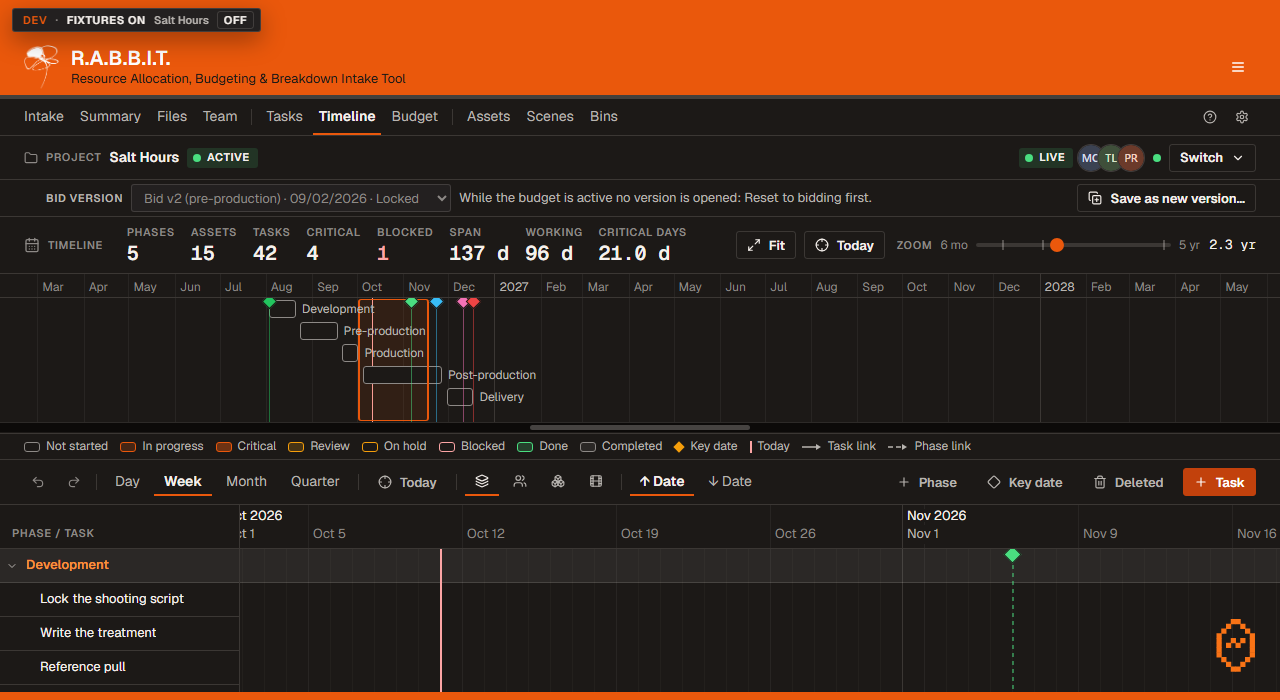
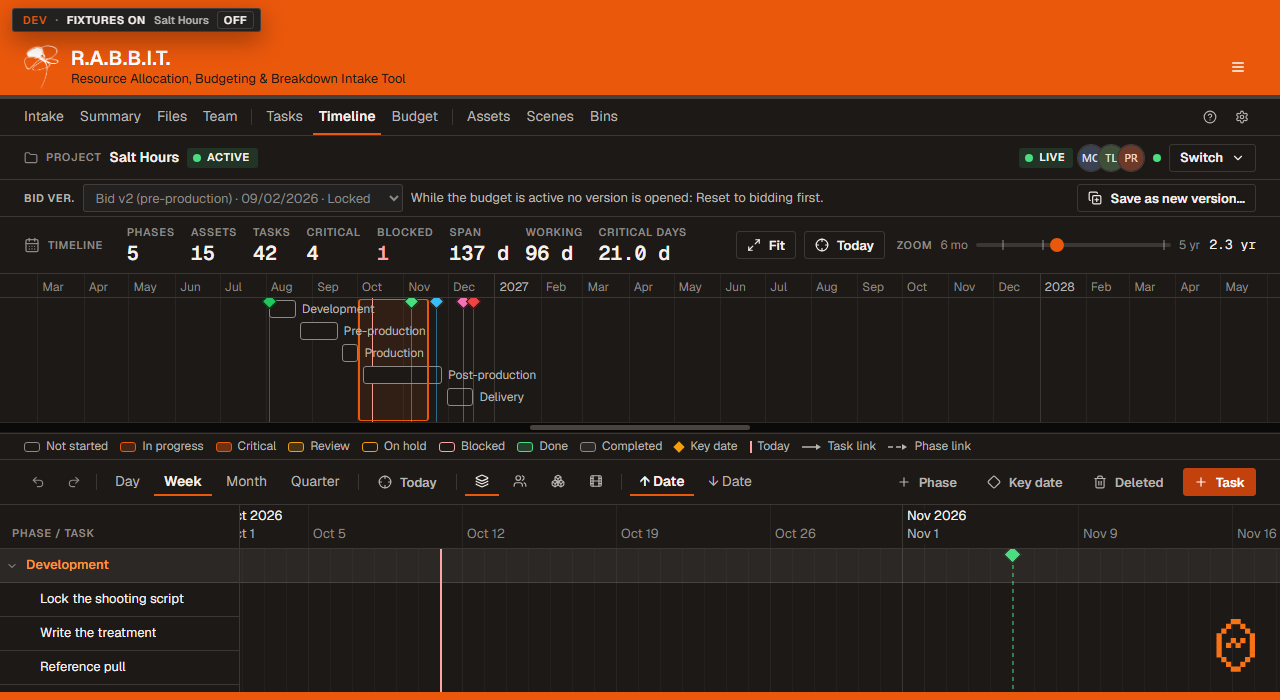
fix(rabbit): the bid version bar's label on the gutter, reading "Bid ver." (FX3 item 2, her second word)
Audrey, 2026-10-11, on the first cut: "move the bid version more to the
left. make it say 'bid ver.' instead of 'bid version'."

- rabbitTimeline.css: the bar's padding is the page gutter again on both
  sides, so its label starts at the project title bar's own left edge
  (MEASURED at 1440x900 and 1280x700, every state: the label at x=24, the
  title bar's bottom and the bar's top both 180px, the right edges equal);
  the first cut had indented it 22px into the title bar's label column.
- TimelineVersions.jsx: the label reads "Bid ver." (BID VER. on the Label
  step); its hover says "Bid version", and the dropdown's own name stays
  "Bid version" (aria-label), so a screen reader hears the whole word.
- Help's Timeline card names it as drawn: "the bid version bar, labelled
  Bid ver., sits right under the project title".
- Tests follow: the gutter padding (no calc), the title bar on the same
  gutter, the words on screen, on the hover and on the dropdown;
  timelineVersions' placement test reads the three.
- Pictures: po-fx3-after-versionbar-* retaken.

Changed region(s): [[0.0, 0.27, 0.6875, 0.3]]

diff --git a/WILSON/src/tools/rabbit_v0.1.0/views/timelineShotLists.test.jsx b/WILSON/src/tools/rabbit_v0.1.0/views/timelineShotLists.test.jsx
@@ -289,21 +289,24 @@ describe('the Timeline view: the shot-list label, and the undo keys\' page gate 
     expect(src.match(/<TimelineVersionBar\b/g)).toHaveLength(1)
     expect(src).not.toMatch(/\bversionBar\b/)
   })
-  it('FX3: the bar\'s label sits in the project title bar\'s label column — the gutter, that bar\'s icon and the kit Toolbar\'s gap', () => {
+  // Audrey's second word on it, the same day: "move the bid version more to
+  // the left. make it say 'bid ver.' instead of 'bid version'". The first cut
+  // indented the label under "PROJECT"; it starts on the page gutter now.
+  it('FX3: the bar\'s label starts on the page gutter — the project title bar\'s own left edge — and reads "Bid ver."', () => {
     const tl = read('./rabbitTimeline.css').replace(/\/\*[\s\S]*?\*\//g, '')
     const bar = (tl.match(/\.rb-tl-ver-bar \{([^}]*)\}/) || [])[1] || ''
-    expect(bar).toMatch(/padding: 4px var\(--spacing-gutter\) 4px calc\(var\(--spacing-gutter\) \+ var\(--icon-sm\) \+ 8px\);/)
-    // …which holds only while the title bar is the kit Toolbar (the gutter,
-    // an 8px gap) led by an icon at --icon-sm: pinned here so a change there
-    // is seen here.
-    const shell = read('../rabbitShell.css').replace(/\/\*[\s\S]*?\*\//g, '')
-    expect(shell).toMatch(/\.rb-ctx-icon \{ width: var\(--icon-sm\); height: var\(--icon-sm\);/)
+    expect(bar).toMatch(/padding: 4px var\(--spacing-gutter\);/)
+    expect(bar).not.toMatch(/calc\(/)
+    // …the same edge as the title bar, the kit Toolbar on the gutter: pinned
+    // here so a change there is seen here.
     const kit = read('../../../index.css').replace(/\/\*[\s\S]*?\*\//g, '')
     const toolbarRule = (kit.match(/\.ui-toolbar \{([^}]*)\}/) || [])[1] || ''
-    expect(toolbarRule).toMatch(/gap: 8px;/)
     expect(toolbarRule).toMatch(/padding: 0 var\(--spacing-gutter\);/)
-    const ctxBar = read('../components/ProjectContextBar.jsx')
-    expect(ctxBar).toMatch(/<Toolbar className="rb-ctx"[^>]*>\s*<Folder className="rb-ctx-icon"/)
+    expect(read('../components/ProjectContextBar.jsx')).toMatch(/<Toolbar className="rb-ctx"/)
+    // The words: "Bid ver." on screen, the whole name on the hover and on the dropdown.
+    const src = read('./TimelineVersions.jsx')
+    expect(src).toContain('<span className="ui-field-label" title="Bid version">Bid ver.</span>')
+    expect(src).toMatch(/aria-label="Bid version"\n/)
   })
   it('CONTROL: round 1\'s flat 180px cap fails the six-tab room (and five), and a cap that ignores the tabs fails six', () => {
     const flat = capRule().replace(/max-width: max\([^;]*\);/, 'max-width: max(180px, calc(100vw - 1100px - (var(--rb-tl-group-tabs, 4) - 4) * 0px));')

diff --git a/WILSON/src/tools/rabbit_v0.1.0/rabbitVersionsHelp.test.jsx b/WILSON/src/tools/rabbit_v0.1.0/rabbitVersionsHelp.test.jsx
@@ -75,10 +75,11 @@ describe('the "Timeline" help page: the bid version bar (S5d, step 9)', () => {
   it('names the bar, its dropdown\'s entries and its verbs as the bar draws them', () => {
     const text = page('rabbit-timeline')
     const bar = read('./views/TimelineVersions.jsx')
-    // FX3: where the bar is now (the Timeline's first row, under the project title).
-    expect(text).toContain('For project managers and workspace admins, a Bid version bar sits right under the project title, the first row of the Timeline: first the project you are in, then the version you are working off.')
+    // FX3: where the bar is now (the Timeline's first row, under the project
+    // title), and its label as the bar draws it ("Bid ver.", her word).
+    expect(text).toContain('For project managers and workspace admins, the bid version bar, labelled Bid ver., sits right under the project title, the first row of the Timeline: first the project you are in, then the version you are working off.')
     expect(text).not.toContain('under the zoom toolbar')
-    expect(bar).toContain('<span className="ui-field-label">Bid version</span>')
+    expect(bar).toContain('<span className="ui-field-label" title="Bid version">Bid ver.</span>')
     for (const word of ['Current', 'Manage versions…', 'Edit this version']) {
       expect(text, word).toContain(word)
       expect(bar, word).toContain(word)

diff --git a/WILSON/src/tools/rabbit_v0.1.0/views/rabbitTimeline.css b/WILSON/src/tools/rabbit_v0.1.0/views/rabbitTimeline.css
@@ -739,17 +739,17 @@
      first you see the project you are in then below is what version you are
      working off of"): the Timeline's FIRST row, directly under R.A.B.B.I.T.'s
      project title bar (ProjectContextBar, the chrome every tab shares), and
-     the toolbar closes up where it was. Its label starts in the title bar's
-     label column — under "PROJECT", past that bar's folder icon and the kit
-     Toolbar's 8px gap — so the two read as one header: the project, then the
-     version you work off. The rest of the row is S5d's, unchanged. */
+     the toolbar closes up where it was. Its label starts on the page gutter,
+     the title bar's own left edge (her second word, the same day: "move the
+     bid version more to the left. make it say 'bid ver.'"; the first cut
+     indented it under "PROJECT"). The rest of the row is S5d's, unchanged. */
   .rb-tl-ver-bar {
     display: flex;
     align-items: center;
     gap: 8px;
     flex-shrink: 0;
     min-width: 0;
-    padding: 4px var(--spacing-gutter) 4px calc(var(--spacing-gutter) + var(--icon-sm) + 8px);
+    padding: 4px var(--spacing-gutter);
     border-bottom: 1px solid var(--color-rule);
   }
   .rb-tl-ver-bar[data-mode="viewing"] { background-color: color-mix(in srgb, var(--color-ink-3) 14%, transparent); }

diff --git a/WILSON/src/tools/rabbit_v0.1.0/rabbitHelpContent.jsx b/WILSON/src/tools/rabbit_v0.1.0/rabbitHelpContent.jsx
@@ -693,10 +693,10 @@ export function RabbitHelpContent({ helpPage, theme }) {
           <div className={T.card}>
             <h4 className={T.cardTitle}>Bid versions</h4>
             <p className={T.listItem}>
-              For project managers and workspace admins, a{' '}
-              <span className={T.listBold}>Bid version</span> bar sits right under
-              the project title, the first row of the Timeline: first the project
-              you are in, then the version you are working off. Its dropdown shows{' '}
+              For project managers and workspace admins, the bid version bar,
+              labelled <span className={T.listBold}>Bid ver.</span>, sits right
+              under the project title, the first row of the Timeline: first the
+              project you are in, then the version you are working off. Its dropdown shows{' '}
               <span className={T.listBold}>Current</span> (the live schedule:
               the open version's, when one is open), every saved version newest
               first, then <span className={T.listBold}>Manage versions…</span>.

diff --git a/WILSON/src/tools/rabbit_v0.1.0/views/timelineVersions.test.jsx b/WILSON/src/tools/rabbit_v0.1.0/views/timelineVersions.test.jsx
@@ -195,7 +195,9 @@ describe('FX3: the bar is the Timeline\'s first row, every S5d control and state
     }
     // Locked (F9): the label, the greyed dropdown, the sentence, Save as new version….
     expect([bar().dataset.mode, ...first()]).toEqual(['locked', true, true, true, false])
-    expect(bar().querySelector('.ui-field-label').textContent).toBe('Bid version')
+    // "Bid ver." on screen (her word); the hover and the dropdown's name say it whole.
+    const label = bar().querySelector('.ui-field-label')
+    expect([label.textContent, label.title, combo().getAttribute('aria-label')]).toEqual(['Bid ver.', 'Bid version', 'Bid version'])
     expect([combo().disabled, words(), verbs()]).toEqual([true, LOCKED_WHY, ['Save as new version…']])
     // Bidding: the dropdown live on Current.
     await reset()

diff --git a/WILSON/src/tools/rabbit_v0.1.0/views/TimelineVersions.jsx b/WILSON/src/tools/rabbit_v0.1.0/views/TimelineVersions.jsx
@@ -212,7 +212,9 @@ export function TimelineVersionBar({ ctx, roleRates, ratesPending = null, viewed
   return (
     <>
       <div className="rb-tl-ver-bar" data-mode={mode} aria-label="Bid versions" role="group">
-        <span className="ui-field-label">Bid version</span>
+        {/* "Bid ver." (Audrey, 2026-10-11: 'make it say "bid ver." instead of
+            "bid version"'); the hover and the dropdown's own name say it whole. */}
+        <span className="ui-field-label" title="Bid version">Bid ver.</span>
         <KitSelect
           className="rb-tl-ver-select"
           size="sm"
